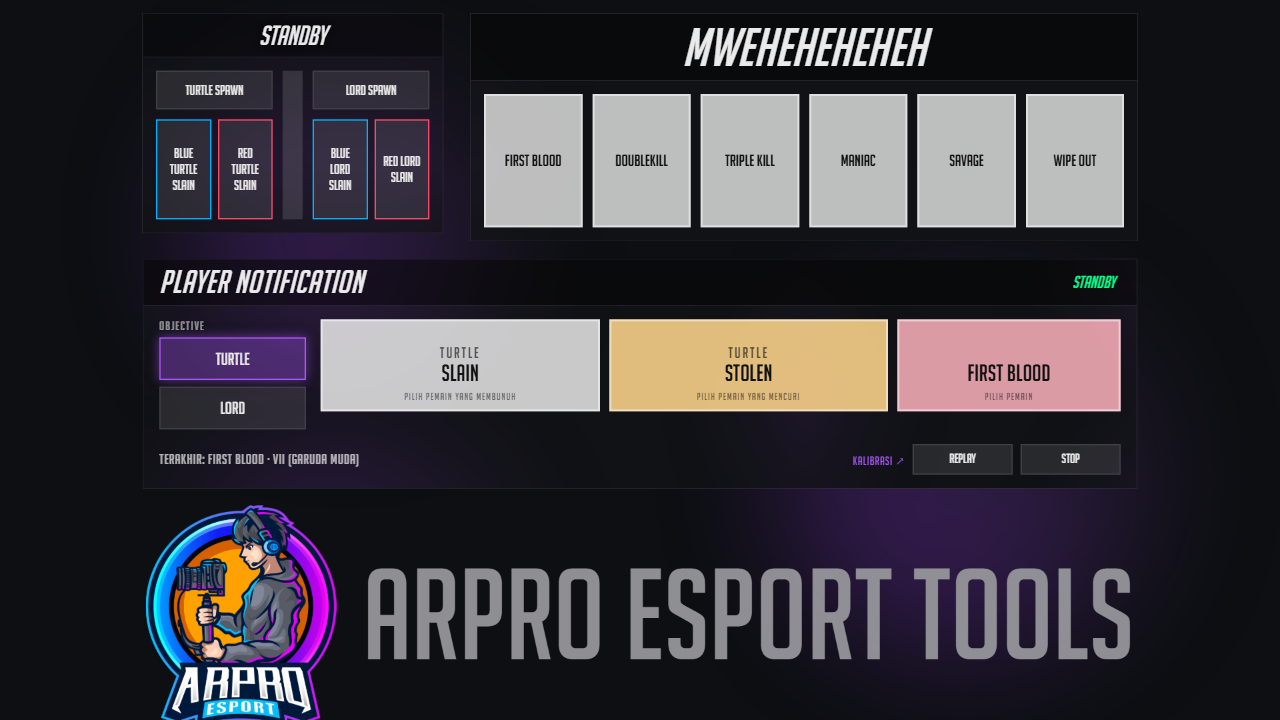
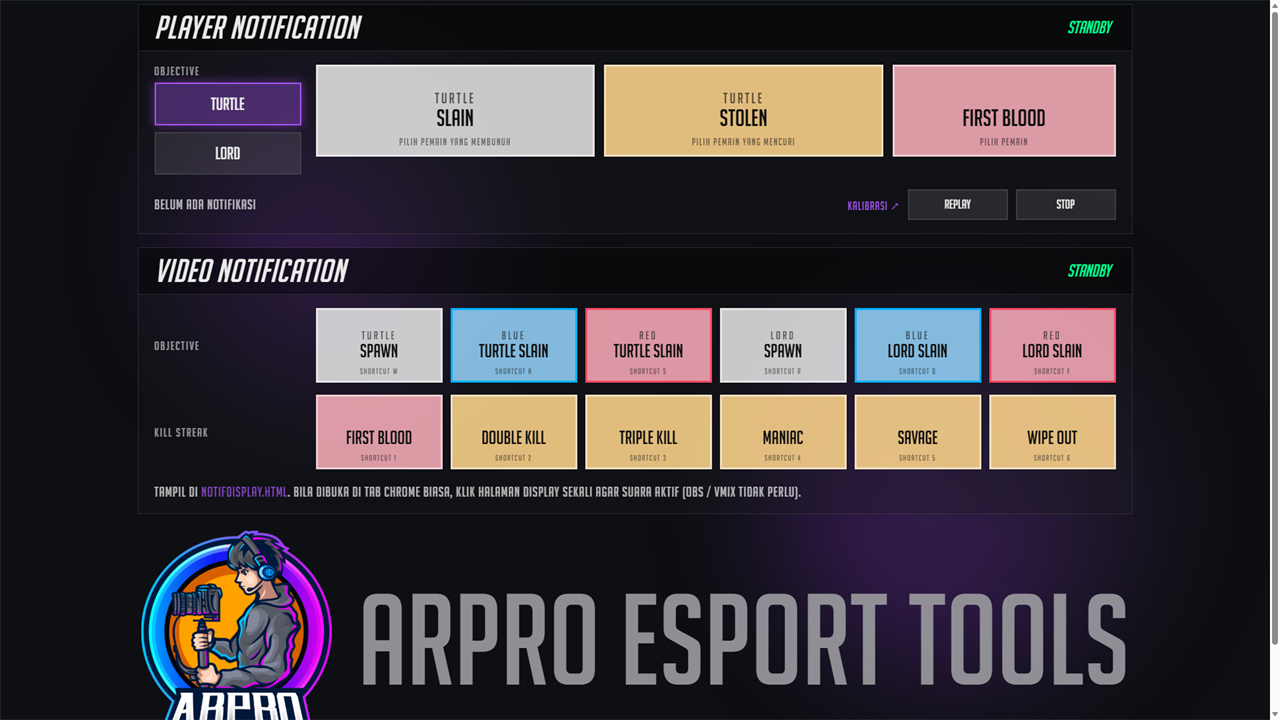
Video notifications: play even when browser blocks autoplay sound; move panel below Player Notification
- notifdisplay: on NotAllowedError retry muted instead of hiding the video; sound returns after one click on the page; ignore AbortError from an interrupted previous video
- notifcontrol: VIDEO NOTIFICATION panel restyled like PLAYER NOTIFICATION (objective + kill streak cards with shortcuts), status shows video name and no longer reset by an older timer

diff --git a/public/notifcontrol.html b/public/notifcontrol.html
@@ -63,49 +63,14 @@
             to { transform: translate(50px, -30px) scale(1.2); }
         }
 
-        .main-container {
-            display: flex;
-            gap: 40px;
-            align-items: flex-start;
-            z-index: 1;
-            padding: 20px;
-            box-sizing: border-box; 
-        }
-        
         .transparent-panel {
-            background-color: rgba(26, 28, 32, 0.25); 
+            background-color: rgba(26, 28, 32, 0.25);
             backdrop-filter: blur(15px);
             -webkit-backdrop-filter: blur(15px);
             border: 1px solid var(--border-color);
             overflow: hidden;
         }
 
-        .control-panel { width: 450px; }
-        .status-bar {
-            background-color: rgba(0, 0, 0, 0.3);
-            text-align: center;
-            padding: 10px 0;
-            border-bottom: 1px solid var(--border-color);
-        }
-
-        #status {
-            font-size: 2.5em;
-            color: var(--font-color);
-            font-style: oblique;
-            text-shadow: 0 0 10px rgba(0,0,0,0.5);
-        }
-
-        .controls-body {
-            display: flex;
-            padding: 20px;
-            gap: 15px;
-        }
-
-        .separator { width: 30px; background-color: rgba(234, 234, 234, 0.15); }
-        .objective-column { flex: 1; display: flex; flex-direction: column; gap: 15px; }
-        .sub-buttons { display: flex; gap: 10px; }
-        .sub-buttons button { flex: 1; height: 150px; }
-        
         button {
             width: 100%;
             padding: 15px 10px;
@@ -126,58 +91,6 @@
             background-color: rgba(168, 85, 247, 0.2);
         }
 
-        .blue-side-btn { border-color: var(--blue-side-accent); }
-        .blue-side-btn:hover { background-color: rgba(0, 175, 255, 0.2); box-shadow: 0 0 15px rgba(0, 175, 255, 0.5); }
-        
-        .red-side-btn { border-color: var(--red-side-accent); }
-        .red-side-btn:hover { background-color: rgba(249, 72, 104, 0.2); box-shadow: 0 0 15px rgba(249, 72, 104, 0.5); }
-
-        .kill-notifier { width: 1000px; }
-        .notifier-header {
-            background-color: rgba(0, 0, 0, 0.4);
-            font-size: 5em;
-            text-align: center;
-            padding: 5px 0;
-            font-style: oblique;
-            border-bottom: 1px solid var(--border-color);
-        }
-        
-        .notifier-buttons {
-            display: flex;
-            justify-content: center;
-            gap: 15px;
-            padding: 20px;
-            background-color: transparent;
-        }
-
-        .notifier-buttons button {
-            flex: 1;
-            max-width: 150px;
-            height: 200px;
-            background-color: rgba(234, 234, 234, 0.8);
-            color: #111;
-            border: 3px solid rgba(255,255,255,0.5);
-            font-size: 1.5em;
-        }
-        .notifier-buttons button:hover {
-             border-color: var(--active-color);
-             box-shadow: 0 0 20px var(--active-color);
-             background-color: #fff;
-        }
-        
-        @media (max-width: 768px) {
-            body { display: block; padding: 20px 10px; overflow-y: auto; min-height: auto; }
-            .main-container { flex-direction: column; gap: 25px; align-items: center; padding: 0; }
-            .control-panel, .kill-notifier { width: 100%; max-width: 500px; }
-            #status { font-size: 2em; }
-            .notifier-header { font-size: 2.5em; }
-            .controls-body { flex-direction: column; padding: 15px; }
-            .separator { display: none; }
-            .notifier-buttons { flex-wrap: wrap; gap: 10px; padding: 15px; }
-            .notifier-buttons button { height: 100px; font-size: 1.2em; flex-basis: calc(50% - 5px); max-width: none; }
-            button { font-size: 1.1em; }
-        }
-
         .overlaytoollogo { text-align: center; margin-bottom: 30px; padding-top: 20px; }
         .overlaytoollogo img { max-width: 100%; height: auto; }
     </style>
@@ -188,43 +101,6 @@
         <div class="blob"></div>
         <div class="blob"></div>
     </div>
-    <div class="main-container">
-        <div class="control-panel transparent-panel">
-            <div class="status-bar">
-                <div id="status">Standby</div>
-            </div>
-            <div class="controls-body">
-                <div class="objective-column">
-                    <button onclick="setVideo('videoPlayer1')">Turtle Spawn</button>
-                    <div class="sub-buttons">
-                        <button class="blue-side-btn" onclick="setVideo('videoPlayer2')">Blue Turtle Slain</button>
-                        <button class="red-side-btn" onclick="setVideo('videoPlayer3')">Red Turtle Slain</button>
-                    </div>
-                </div>
-                <div class="separator"></div>
-                <div class="objective-column">
-                    <button onclick="setVideo('videoPlayer4')">Lord Spawn</button>
-                    <div class="sub-buttons">
-                        <button class="blue-side-btn" onclick="setVideo('videoPlayer5')">Blue Lord Slain</button>
-                        <button class="red-side-btn" onclick="setVideo('videoPlayer6')">Red Lord Slain</button>
-                    </div>
-                </div>
-            </div>
-        </div>
-
-        <div class="kill-notifier transparent-panel">
-            <div class="notifier-header"> MWEHEHEHEHEH </div>
-            <div class="notifier-buttons">
-                <button onclick="setVideo('videoPlayer7')">First blood</button>
-                <button onclick="setVideo('videoPlayer8')">doublekill</button>
-                <button onclick="setVideo('videoPlayer9')">Triple Kill</button>
-                <button onclick="setVideo('videoPlayer10')">Maniac</button>
-                <button onclick="setVideo('videoPlayer11')">Savage</button>
-                <button onclick="setVideo('videoPlayer12')">Wipe Out</button>
-            </div>
-        </div>
-    </div>
-
     <!-- PLAYER NOTIFICATION: notifikasi bergrafis dengan foto, role & nickname pemain (overlay: notifdisplay.html / eventdisplay.html) -->
     <div class="pn-panel transparent-panel" id="pnPanel">
         <div class="pn-head">
@@ -266,14 +142,55 @@
         </div>
     </div>
 
+    <!-- VIDEO NOTIFICATION: video webm layar penuh (overlay: notifdisplay.html). Gaya panel sama dengan Player Notification. -->
+    <div class="pn-panel vn-panel transparent-panel">
+        <div class="pn-head">
+            <span class="pn-title">VIDEO NOTIFICATION</span>
+            <div class="pn-status" id="status">Standby</div>
+        </div>
+        <div class="pn-body">
+            <div class="pn-label vn-label">OBJECTIVE</div>
+            <div class="vn-grid">
+                <button class="vn-btn" onclick="setVideo('videoPlayer1')"><b>TURTLE</b>SPAWN<small>shortcut W</small></button>
+                <button class="vn-btn blue" onclick="setVideo('videoPlayer2')"><b>BLUE</b>TURTLE SLAIN<small>shortcut A</small></button>
+                <button class="vn-btn red" onclick="setVideo('videoPlayer3')"><b>RED</b>TURTLE SLAIN<small>shortcut S</small></button>
+                <button class="vn-btn" onclick="setVideo('videoPlayer4')"><b>LORD</b>SPAWN<small>shortcut R</small></button>
+                <button class="vn-btn blue" onclick="setVideo('videoPlayer5')"><b>BLUE</b>LORD SLAIN<small>shortcut D</small></button>
+                <button class="vn-btn red" onclick="setVideo('videoPlayer6')"><b>RED</b>LORD SLAIN<small>shortcut F</small></button>
+            </div>
+
+            <div class="pn-label vn-label">KILL STREAK</div>
+            <div class="vn-grid">
+                <button class="vn-btn fb" onclick="setVideo('videoPlayer7')"><b>&nbsp;</b>FIRST BLOOD<small>shortcut 1</small></button>
+                <button class="vn-btn kill" onclick="setVideo('videoPlayer8')"><b>&nbsp;</b>DOUBLE KILL<small>shortcut 2</small></button>
+                <button class="vn-btn kill" onclick="setVideo('videoPlayer9')"><b>&nbsp;</b>TRIPLE KILL<small>shortcut 3</small></button>
+                <button class="vn-btn kill" onclick="setVideo('videoPlayer10')"><b>&nbsp;</b>MANIAC<small>shortcut 4</small></button>
+                <button class="vn-btn kill" onclick="setVideo('videoPlayer11')"><b>&nbsp;</b>SAVAGE<small>shortcut 5</small></button>
+                <button class="vn-btn kill" onclick="setVideo('videoPlayer12')"><b>&nbsp;</b>WIPE OUT<small>shortcut 6</small></button>
+            </div>
+
+            <div class="pn-foot">
+                <span>Tampil di <b>notifdisplay.html</b>. Bila dibuka di tab Chrome biasa, klik halaman display sekali agar suara aktif (OBS / vMix tidak perlu).</span>
+            </div>
+        </div>
+    </div>
+
     <div class="overlaytoollogo">
             <img src="Assets/Other/OVERLAYTOOLLOGO.png" alt="">
     </div>
 
     <script>
+        const VIDEO_NAMES = {
+            videoPlayer1: 'TURTLE SPAWN', videoPlayer2: 'BLUE TURTLE SLAIN', videoPlayer3: 'RED TURTLE SLAIN',
+            videoPlayer4: 'LORD SPAWN', videoPlayer5: 'BLUE LORD SLAIN', videoPlayer6: 'RED LORD SLAIN',
+            videoPlayer7: 'FIRST BLOOD', videoPlayer8: 'DOUBLE KILL', videoPlayer9: 'TRIPLE KILL',
+            videoPlayer10: 'MANIAC', videoPlayer11: 'SAVAGE', videoPlayer12: 'WIPE OUT'
+        };
+        let statusTimer = null;
+
         // MENGIRIM PERINTAH KE SERVER NODE.JS
         async function setVideo(playerId) {
-            updateStatus(`SENDING ${playerId.replace('videoPlayer', '')}...`);
+            updateStatus(`SENDING ${VIDEO_NAMES[playerId] || playerId}...`);
             
             try {
                 const response = await fetch('/api/notification', {
@@ -285,9 +202,10 @@
                 });
 
                 if (response.ok) {
-                    updateStatus(`PLAYING M${playerId.replace('videoPlayer', '')}`);
-                    // Kembalikan status ke standby setelah 3 detik
-                    setTimeout(() => {
+                    updateStatus(`PLAYING ${VIDEO_NAMES[playerId] || playerId}`);
+                    // Kembalikan status ke standby setelah 3 detik (timer lama dibatalkan agar tidak menimpa klik berikutnya)
+                    clearTimeout(statusTimer);
+                    statusTimer = setTimeout(() => {
                         updateStatus('Standby');
                     }, 3000);
                 } else {

diff --git a/public/notifdisplay.html b/public/notifdisplay.html
@@ -57,6 +57,17 @@
         const videoPlayer = document.getElementById('videoPlayer');
         const videoSource = document.getElementById('videoSource');
         let isPlaying = false;
+        let playToken = 0;
+
+        // Chrome / Edge biasa menolak video BERSUARA sebelum halaman pernah diklik (OBS & vMix tidak).
+        // Bila ditolak: tetap putar tanpa suara agar notifikasi tetap tampil; suara aktif lagi setelah halaman diklik / ditekan tombol.
+        let soundAllowed = true;
+        const unlockSound = () => {
+            soundAllowed = true;
+            videoPlayer.muted = false;
+            window.removeEventListener('pointerdown', unlockSound);
+            window.removeEventListener('keydown', unlockSound);
+        };
 
         // --- WEBSOCKET CONNECTION ---
         const wsProtocol = window.location.protocol === 'https:' ? 'wss:' : 'ws:';
@@ -95,11 +106,26 @@
                 videoPlayer.style.display = 'block';
                 isPlaying = true;
 
-                // Play video
+                // Play video (dengan suara bila diizinkan browser; bila ditolak → ulangi tanpa suara)
+                // token: error dari video sebelumnya yang dihentikan (AbortError) tidak boleh menyembunyikan video baru
+                const token = ++playToken;
+                videoPlayer.muted = !soundAllowed;
                 const playPromise = videoPlayer.play();
                 if (playPromise !== undefined) {
                     playPromise.catch(error => {
-                        console.error("Auto-play prevented:", error);
+                        if (token !== playToken) return;
+                        if (error.name === 'NotAllowedError' && !videoPlayer.muted) {
+                            console.warn('Autoplay bersuara diblokir browser → diputar tanpa suara. Klik halaman ini sekali untuk mengaktifkan suara.');
+                            soundAllowed = false;
+                            window.addEventListener('pointerdown', unlockSound);
+                            window.addEventListener('keydown', unlockSound);
+                            videoPlayer.muted = true;
+                            return videoPlayer.play();
+                        }
+                        throw error;
+                    }).catch(error => {
+                        if (token !== playToken || error.name === 'AbortError') return;
+                        console.error("Video gagal diputar:", error);
                         isPlaying = false;
                         videoPlayer.style.display = 'none';
                     });

diff --git a/public/eventnotifcontrol.css b/public/eventnotifcontrol.css
@@ -164,6 +164,44 @@ body { overflow-y: auto; padding-bottom: 20px; }
 .pn-foot button { width: 150px; padding: 10px; font-size: 1.2em; }
 .pn-foot a { color: var(--accent-color); font-size: 1.1em; letter-spacing: 1px; text-decoration: none; }
 
+/* ---------- VIDEO NOTIFICATION (panel di bawah Player Notification, gaya kartu sama dengan .pn-action) ---------- */
+.vn-panel { margin-top: 20px; }
+.vn-label { align-self: center; margin-bottom: 0; }
+
+.vn-grid { display: grid; grid-template-columns: repeat(6, 1fr); gap: 12px; }
+
+.vn-btn {
+    position: relative;
+    height: 112px;
+    font-size: 1.75em;
+    line-height: 1.05;
+    background-color: rgba(234, 234, 234, 0.85);
+    color: #111;
+    border: 3px solid rgba(255, 255, 255, 0.5);
+}
+
+.vn-btn b { display: block; font-weight: normal; font-size: 0.62em; letter-spacing: 3px; opacity: 0.65; }
+.vn-btn small { position: absolute; left: 0; right: 0; bottom: 8px; font-size: 0.42em; letter-spacing: 1.5px; opacity: 0.55; }
+
+.vn-btn.blue { background-color: rgba(150, 215, 255, 0.85); border-color: var(--blue-side-accent); }
+.vn-btn.red { background-color: rgba(255, 175, 188, 0.85); border-color: var(--red-side-accent); }
+.vn-btn.fb { background-color: rgba(255, 180, 190, 0.85); }
+.vn-btn.kill { background-color: rgba(255, 214, 140, 0.88); }
+
+.vn-btn:hover {
+    background-color: #fff;
+    border-color: var(--active-color);
+    box-shadow: 0 0 20px var(--active-color);
+    color: #111;
+}
+
+.vn-panel .pn-foot span b { font-weight: normal; color: var(--accent-color); }
+
+@media (max-width: 1100px) {
+    .vn-grid { grid-template-columns: repeat(3, 1fr); }
+    .vn-label { margin-bottom: 4px; }
+}
+
 @media (max-width: 1100px) {
     .pn-body { grid-template-columns: 1fr; }
     .pn-seg { flex-direction: row; }
